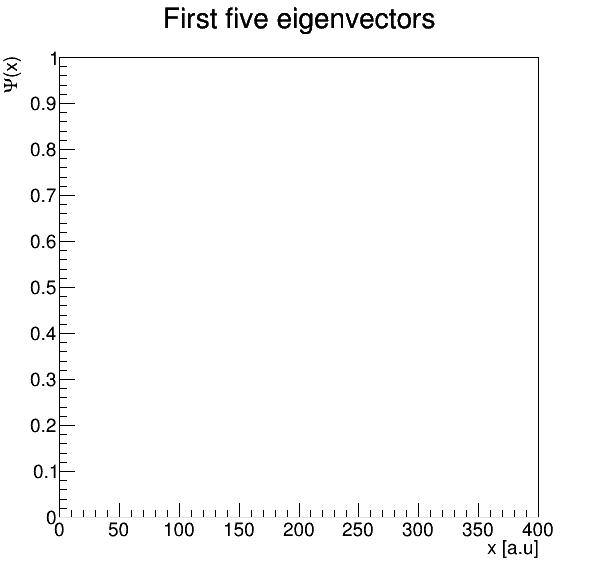
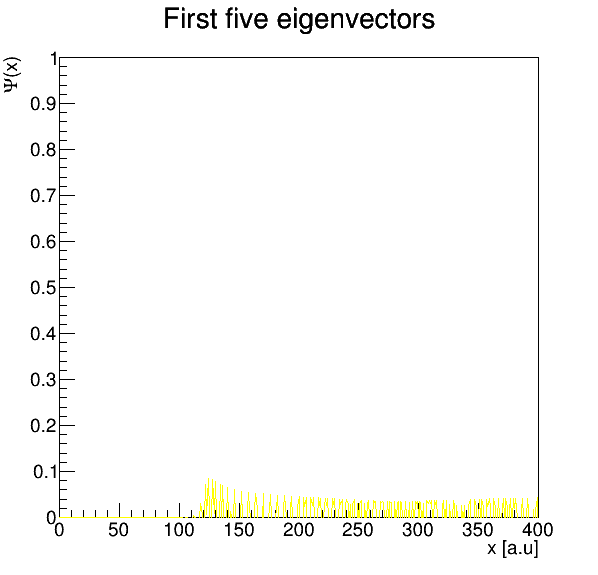
Update task 6

Changed region(s): [[0.3311, 0.8278, 0.903, 0.9165]]

diff --git a/lab07/plot.C b/lab07/plot.C
@@ -18,7 +18,8 @@ void plot(double omega = 0.001){
   }
   std::cout<<"Vectors are "<<N<<"-dimensional"<<std::endl;
   double valY;
-  
+
+  TGraph* gr;
   TMultiGraph* mg = new TMultiGraph();
   int n = 0;
   int nCorrect = 0;
@@ -32,7 +33,7 @@ void plot(double omega = 0.001){
     
     if(n<5){
       printf("%12.6lf|%12.6lf|%12.6lf\n",eigenvalue, En, error);
-      TGraph* gr = new TGraph();
+      gr = new TGraph();
       for(int i=0; i<N; i++){
 	fVectors>>valY;
 	gr->SetPoint(i, i, valY);

diff --git a/lab07/eigenvalue.c b/lab07/eigenvalue.c
@@ -101,7 +101,7 @@ int main()
   for(int i=0; i<N; i++){
     fprintf(fValues,"%lf\n",W[i]);
     for(int j=0; j<N;j++)
-      fprintf(fVectors,"%g ", H[i, j]);
+      fprintf(fVectors,"%g ", H[i*lda+j]);
     fprintf(fVectors,"\n");
   }
   fclose(fValues);
